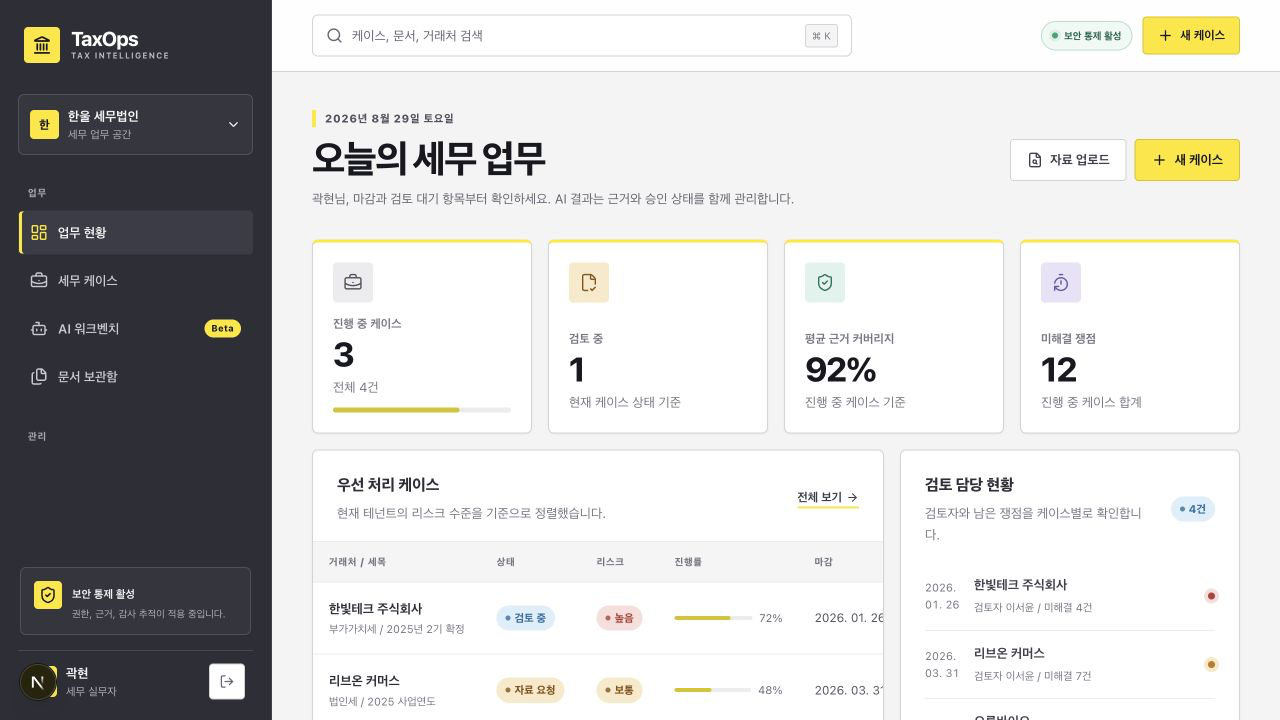
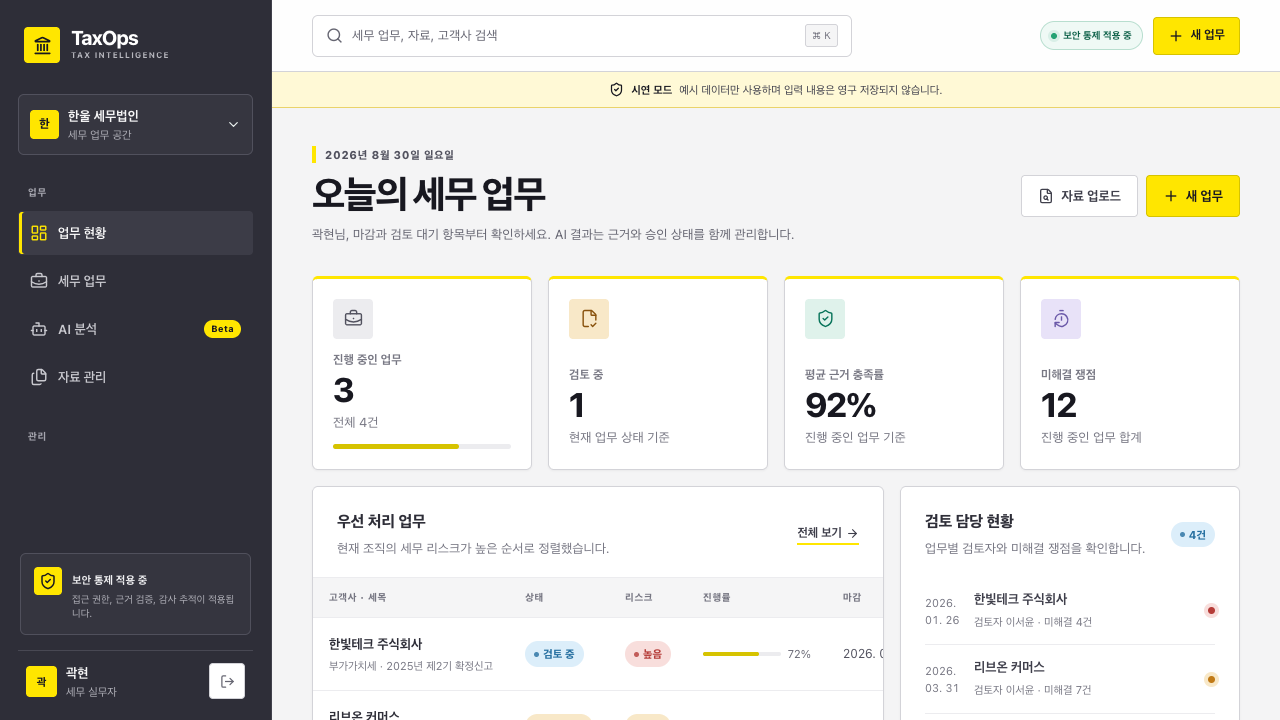
docs: strengthen portfolio README

diff --git a/README.md b/README.md
@@ -1,39 +1,85 @@
 # TaxOps AI
 
-근거가 확인된 자료만 사용해 세무 검토 초안을 만들고, 독립 검증과 전문가 승인을 거쳐 워크페이퍼로 확정하는 업무 플랫폼입니다. React와 Next.js 기반 화면부터 PostgreSQL, 파일 검역 워커, RAG 에이전트, MCP, 관측성, 컨테이너와 AWS 배포 참조까지 하나의 저장소에 구현했습니다.
+검증된 자료만 AI 검색에 포함하고, 초안의 주장과 근거를 다시 확인한 뒤 세무 검토자의 승인으로 확정하는 세무 업무 플랫폼입니다.
 
-라이브 포트폴리오: [taxops-ai.vercel.app](https://taxops-ai.vercel.app). 예시 데이터와 결정론적 AI 흐름만 제공하며, 입력 내용은 영구 저장되지 않습니다.
+[![quality-gates](https://github.com/kwakhyun/taxops-ai/actions/workflows/ci.yml/badge.svg?branch=main)](https://github.com/kwakhyun/taxops-ai/actions/workflows/ci.yml)
 
-![TaxOps AI 대시보드](artifacts/dashboard-visual.png)
+- **프로젝트 성격:** AI 개발 도구를 활용해 만든 개인 채용 포트폴리오
+- **구현 범위:** 업무 UX, Next.js 서버, PostgreSQL, 파일 처리, RAG 에이전트, 보안 통제, 관측성과 배포 참조
+- **검증 방식:** 타입 검사, 단위·계약·브라우저 테스트, AI 평가, 컨테이너 빌드와 Terraform 검증을 CI에서 반복 실행
+- **운영 상태:** [Vercel 공개 데모](https://taxops-ai.vercel.app)와 AWS 운영 환경을 위한 Terraform 참조 구현
 
-## 구현 범위
+공개 데모는 예시 데이터와 결정론적 AI 흐름만 사용하며 입력 내용을 영구 저장하지 않습니다. 실제 고객정보나 개인정보는 입력하지 마세요.
+
+![현재 세무 업무와 검토 대상을 보여 주는 TaxOps AI 대시보드](artifacts/dashboard-visual.png)
+
+## 5분 검토 방법
+
+1. [라이브 데모](https://taxops-ai.vercel.app)를 열어 마감, 리스크, 근거 충족률을 확인합니다.
+2. `⌘K` 또는 `Ctrl+K`를 누르고 `리브온`을 검색해 고객사 세무 업무로 이동합니다.
+3. `한빛테크 주식회사` 업무에서 색인 완료 자료의 다운로드와 추가 작업 메뉴를 확인합니다.
+4. **AI 분석**에서 `매입세액 불공제 의심 항목과 신고서 반영 차이` 질문을 실행합니다.
+5. 답변의 주장별 근거, 원문 위치, 관련도와 전문가 검토 대기 상태를 확인합니다. 근거가 없는 질문에는 답변을 보류합니다.
+
+![주장별 근거와 검토 결론을 함께 보여 주는 AI 분석 화면](artifacts/assistant-visual.png)
+
+## 검증 결과
+
+2026년 8월 30일 기준 결과입니다. 최신 상태는 상단 CI 배지에서 확인할 수 있습니다.
+
+| 검증 영역             |          결과 | 확인 범위                                                    |
+| --------------------- | ------------: | ------------------------------------------------------------ |
+| 단위·코드 계약 테스트 |    77/77 통과 | 보안 통제, 검색, 승인, 비용, 파일 검증과 서버 로직           |
+| Chromium 사용자 흐름  |      9/9 통과 | 업무 생성, 검색, 내보내기, 다운로드, 업로드, AI, 승인, MCP   |
+| PostgreSQL 운영 계약  |    25/25 통과 | 마이그레이션, RLS, 역할 분리, 조직 간 격리와 트랜잭션        |
+| 결정론적 AI 평가      |    45/45 통과 | 검색, 인용 무결성, 답변 보류, 프롬프트 인젝션과 조직 간 누출 |
+| 배포 품질 게이트      | 5개 작업 통과 | 전체 검증, 브라우저, DB, 컨테이너 3종과 Terraform            |
+
+코드 커버리지 기준선도 품질 게이트에 포함했습니다. 새 코드로 전체 커버리지가 기준선 아래로 내려가면 CI가 실패합니다.
+
+## 핵심 설계 판단
+
+| 판단                                                   | 구현                                                                                                                    | 자동 검증                                                                    |
+| ------------------------------------------------------ | ----------------------------------------------------------------------------------------------------------------------- | ---------------------------------------------------------------------------- |
+| 승인되지 않은 자료가 AI 근거로 사용되면 안 됩니다.     | 현재 조직과 업무에 속하고, 보안 검사를 통과한 최신 버전의 승인 자료만 검색합니다.                                       | 미승인 자료, 과거 버전과 다른 조직 자료의 배제 계약 및 AI 평가               |
+| AI와 웹 서버가 최종 승인 상태를 직접 바꾸면 안 됩니다. | 웹, 워커, 검토 서비스를 다른 DB 역할로 분리하고 산출물 해시와 행위에 묶인 일회성 승인 토큰을 사용합니다.                | 직접 쓰기 거부, 토큰 재사용 차단과 원자적 상태 전이 계약                     |
+| 공개 데모가 운영 구성을 가장하면 안 됩니다.            | 데모 저장소와 PostgreSQL 저장소를 같은 인터페이스 뒤에 두고, 운영 모드에서는 OIDC와 필수 외부 서비스 구성을 강제합니다. | 공개 준비 상태 API의 정보 노출 방지, 운영 설정 검사와 컨테이너 스모크 테스트 |
+
+## 업무 흐름과 구현 범위
 
 ```mermaid
 flowchart LR
-  A[케이스 생성] --> B[격리 저장]
+  A[세무 업무 생성] --> B[자료 격리 저장]
   B --> C[형식·서명·악성 파일 검사]
-  C --> D[파싱·청킹·벡터 인덱싱]
-  D --> E[테넌트·케이스 범위 RAG]
-  E --> F[제한된 ToolLoopAgent]
+  C --> D[내용 추출·청킹·벡터 인덱싱]
+  D --> E[조직·업무 범위 근거 검색]
+  E --> F[허용된 도구만 사용하는 AI]
   F --> G[독립 근거 검증]
-  G --> H[Reviewer 승인]
-  H --> I[확정 워크페이퍼]
+  G --> H[세무 검토자 승인]
+  H --> I[검토조서 확정]
   A -.-> J[해시 체인 감사 로그]
   C -.-> J
   F -.-> J
   H -.-> J
 ```
 
-- 업무 UI: 대시보드, 케이스, 문서 보관함, AI 워크벤치, 검토·승인, 운영, 평가, 감사 로그
-- 서버: 타입이 있는 REST API, 통일된 오류 응답, 요청 ID, 상태 전이, 멱등 업로드
-- 데이터: PostgreSQL 16, Drizzle 스키마와 검토된 SQL 마이그레이션, pgvector, RLS, 복합 외래 키
-- 파일: 비공개 격리 저장소, MIME·확장자·magic bytes와 OOXML ZIP 구조 검증, SHA-256, ClamAV, 정확한 S3 version/ETag 바인딩, 비동기 파싱과 인덱싱
-- AI: hybrid retrieval, 과세기간 기준일, 버전 관리 프롬프트, 제한된 tool loop, 별도 검증 에이전트, 문서 지시 분류, 월간과 실행별 비용 예산
-- 보안: OIDC Authorization Code + PKCE와 API Bearer 검증, DB 역할 확정, RBAC, RLS, 분리된 Reviewer 서비스, 일회성 승인 토큰, 외부 반출 PII 정책, 전체 감사 체인 검증
-- 운영: lease 기반 작업 큐, 재시도·jitter·DLQ, 서명된 outbox 알림, health endpoints, 구조화 로그, Docker, GitHub Actions, AWS Terraform 참조
-- 상호운용: 읽기 전용 세무 케이스·근거 검색 MCP 서버
+- **제품과 서버:** React 19와 Next.js 16 기반 반응형 업무 화면, 권한별 탐색, 통합 검색, Zod 요청 검증, 표준 오류 응답과 요청 ID
+- **데이터와 파일:** PostgreSQL 16, Drizzle 스키마와 SQL 마이그레이션, pgvector, RLS, 복합 외래 키, 비공개 격리 저장소, 파일 서명과 OOXML 구조 검사, ClamAV, S3 객체 버전·체크섬 결합
+- **AI:** 혼합 검색, 과세기간 기준일, 버전 관리 프롬프트, 제한된 도구 호출, 별도 검증 에이전트, 답변 보류와 실행별·월간 비용 예산
+- **보안과 운영:** OIDC Authorization Code + PKCE, RBAC, 분리된 검토 서비스, 비동기 작업 큐, 재시도·DLQ·서명된 알림, 구조화 로그, Docker, GitHub Actions와 AWS Terraform 참조
+- **상호운용:** 현재 조직 범위에서 세무 업무와 근거를 읽는 MCP 서버
 
-세부 근거는 [요구사항 추적표](docs/requirements-traceability.md)에 정리했습니다.
+세부 구현 근거와 아직 실환경 검증이 필요한 항목은 [요구사항 추적표](docs/requirements-traceability.md)에서 구분했습니다.
+
+## AI 개발 도구 사용과 산출물 검증
+
+개발 과정에서 AI 개발 도구를 요구사항 분해, 코드 작성, 문서화와 검토에 활용했습니다. 생성 결과는 완성품으로 간주하지 않고 다음 절차로 검증했습니다.
+
+1. 모호한 요구사항을 아키텍처, 위협 모델, API 계약, 평가 기준과 운영 런북으로 나눕니다.
+2. 변경마다 포맷, ESLint, 웹·워커·검토 서비스 타입 검사를 실행합니다.
+3. 단위 테스트에 그치지 않고 실제 PostgreSQL 역할과 트랜잭션, Chromium 사용자 흐름, 공식 MCP 클라이언트로 경계를 확인합니다.
+4. 프롬프트, 도구 스키마와 검색 버전을 코드에 두고 평가 보고서에 버전과 결과를 남깁니다.
+5. `main` 브랜치의 모든 변경은 GitHub Actions 품질 게이트와 Vercel 자동 배포 결과로 다시 확인합니다.
 
 ## 빠른 실행
 
@@ -45,39 +91,37 @@ cp .env.example .env.local
 npm run dev
 ```
 
-브라우저에서 `http://localhost:3000`을 엽니다. 기본값은 외부 서비스가 없어도 재현 가능한 데모 모드입니다. AI 응답 역시 고정 fixture를 그대로 출력하는 방식이 아니라, 질문과 검색 근거를 확인해 인용·기권 흐름을 결정하는 결정론적 로컬 경로를 사용합니다.
+브라우저에서 `http://localhost:3000`을 엽니다. 기본 설정은 외부 서비스 없이 재현 가능한 데모 모드입니다. 이 모드는 질문과 검색 근거를 확인해 인용 또는 답변 보류 흐름을 결정하며, 저장된 답변 문장을 그대로 출력하지 않습니다.
 
-Vercel 포트폴리오 프리뷰는 `PORTFOLIO_DEMO=true`, `AUTH_MODE=demo`를 명시한 격리 프로필로 실행할 수 있습니다. 이 프로필은 DB, 객체 저장소, 외부 AI Gateway 또는 Reviewer 서비스가 함께 구성되면 활성화되지 않습니다. 화면의 예시 데이터와 결정론적 AI 흐름을 검토하기 위한 용도이며, 입력 내용은 영구 저장되지 않으므로 실제 고객정보나 개인정보를 입력하면 안 됩니다. 실제 운영 환경에서는 이 변수를 제거하고 OIDC와 모든 외부 의존성을 구성해야 합니다.
-
-실제 AI Gateway를 사용하려면 `.env.local`에 `AI_GATEWAY_API_KEY`를 설정합니다. 웹 readiness는 DB와 Reviewer 서비스를 직접 호출하고, OIDC, AI, 객체 저장소, DLP, 의미 분류기와 MCP 설정을 검증합니다. Worker는 production 시작 단계에서 DB, 객체 저장소, ClamAV 연결과 문서 처리기, DLP, 의미 분류기의 인증된 설정을 따로 검증합니다. 브라우저 OIDC를 위해 `APP_BASE_URL`, authorization/token endpoint, client ID와 secret, 32자 이상의 `SESSION_SECRET`도 필요합니다. `TAXOPS_LOCAL_STACK=true`는 `NODE_ENV=development`인 로컬 Compose 계약 시험에서만 사용하며, production 웹 readiness와 Worker 시작은 이 설정을 명시적으로 거부합니다.
+실제 AI Gateway를 사용하려면 `.env.local`에 `AI_GATEWAY_API_KEY`를 설정합니다. 운영 모드에 필요한 OIDC, 객체 저장소, 개인정보 비식별화, 문서 처리와 의미 분류기 설정은 [.env.example](.env.example)과 [운영 런북](docs/operations-runbook.md)에 정리했습니다. 준비 상태 API의 의존 서비스별 상세 진단은 운영 전용 `HEALTH_DETAIL_TOKEN`으로만 조회할 수 있습니다.
 
 ## 검증 명령
 
 ```bash
-npm run verify       # 포맷, 린트, 타입, 단위 테스트, 평가, 프로덕션 빌드
-npm run test:e2e     # 실제 Chromium 사용자 흐름과 공식 MCP 클라이언트
-npm run eval         # 45개 결정론적 입력과 5개 mock agent 실행 품질 게이트
-npm run audit:prod   # production 의존성 취약점 게이트
+npm run verify       # 포맷, 린트, 타입, 커버리지 하한, AI 평가, 프로덕션 빌드
+npm run test:e2e     # Chromium 사용자 흐름과 공식 MCP 클라이언트
+npm run eval         # 45개 결정론적 입력과 5개 모의 에이전트 실행
+npm run audit:prod   # 운영 의존성의 심각도 high 이상 취약점 차단
 docker compose config -q
 docker compose up --build --abort-on-container-exit --exit-code-from contract-test contract-test
 docker compose run --rm contract-test npm run test:reviewer-service
 docker compose run --rm contract-test node --import tsx scripts/run-worker-smoke.ts
 ```
 
-현재 결정론적 품질 게이트는 Recall@5 90% 이상, 인용 원문 무결성 100%, 적대적 주장 무결성 사례 100%, 기권 정확도 90% 이상, prompt-injection 차단 100%, 교차 테넌트 누출 0건입니다. 평가 결과는 `artifacts/evaluation-report.json`에 저장되고 평가 화면이 이 파일을 직접 읽습니다. 이 평가는 fixture 검색, mock model orchestration과 코드 수준 무결성 회귀를 검증할 뿐, 실제 모델의 의미 정확도나 세무 정확도를 보증하지 않습니다. 실제 Gateway와 의미 분류기 경로는 별도의 staging 평가가 필요합니다.
+AI 품질 게이트는 Recall@5 90% 이상, 인용 원문 무결성 100%, 적대적 주장 무결성 사례 100%, 답변 보류 정확도 90% 이상, 프롬프트 인젝션 차단 100%, 조직 간 정보 누출 0건을 요구합니다.
 
-## 프로덕션 구성
+[평가 보고서](artifacts/evaluation-report.json)는 고정 평가 데이터 검색, 모의 모델 실행 흐름과 코드 수준 무결성 회귀를 검증합니다. 실제 모델의 의미 정확도나 세무 정확도를 보증하는 결과는 아닙니다.
 
-`compose.yaml`은 PostgreSQL/pgvector, MinIO, ClamAV, 마이그레이션, 웹, 워커와 독립 Reviewer 서비스를 연결합니다. 웹, 워커, Reviewer에는 서로 다른 DB 역할을 부여합니다. 웹 역할은 workpaper, version, approval 테이블에 직접 쓸 수 없고, 근거가 1건 이상이며 원문 필드 전체가 현재 DB와 일치할 때만 제한 함수가 검토 요청을 만듭니다. Reviewer 결정은 approval과 연결된 AI 실행 상태를 한 트랜잭션에서 함께 전이합니다.
+## 운영 환경 참조
+
+`compose.yaml`은 PostgreSQL/pgvector, MinIO, ClamAV, 마이그레이션, 웹, 워커와 독립 검토 서비스를 연결합니다. 세 런타임은 서로 다른 DB 역할을 사용합니다. 웹 역할은 검토조서 버전과 승인 테이블을 직접 변경할 수 없으며, 검토 결정은 승인 기록과 AI 실행 상태를 한 트랜잭션에서 함께 전이합니다.
 
 `infra/terraform`은 기존 VPC와 ALB 위에 다음 리소스를 구성하는 참조 모듈입니다.
 
 - KMS로 암호화된 비공개·버전 관리 S3 버킷
 - Multi-AZ RDS PostgreSQL
-- private subnet의 ECS Fargate 웹, 워커, Reviewer 서비스
-- 최소 범위 IAM, 암호화된 CloudWatch 로그, 경보·대시보드, 웹 자동 확장
-
-실제 배포 전에는 조직의 WAF, DNS·인증서, IdP, VPC endpoint, 백업, GuardDuty/Security Hub, 고가용성 ClamAV와 문서 처리 서비스를 연결하고 보안 담당자의 검토를 받아야 합니다. 자세한 절차는 [운영 런북](docs/operations-runbook.md)을 따릅니다.
+- 프라이빗 서브넷의 ECS Fargate 웹, 워커와 검토 서비스
+- 최소 권한 IAM, 암호화된 CloudWatch 로그, 경보·대시보드와 웹 자동 확장
 
 ## 핵심 설계 문서
 
@@ -90,6 +134,8 @@ docker compose run --rm contract-test node --import tsx scripts/run-worker-smoke
 
 ## 사실 범위와 남은 검증
 
-이 저장소는 해당 역할에 필요한 구현 역량을 보여 주는 end-to-end 포트폴리오입니다. 저장소 자체만으로 실제 사용자 대상 운영 경력 3년 이상을 증명할 수는 없습니다. 또한 AWS 계정에 Terraform을 적용하거나 실제 EY 환경, IdP, 세무 원천 시스템과 통합한 상태가 아닙니다.
-
-운영 전에는 세무 전문가의 golden set 확장과 결론 검수, 실제 의미 분류기의 한국어·영어 우회 변형 평가, 실제 OIDC·KMS·S3·RDS 통합 시험, 부하·복구·침투 테스트, 개인정보 영향평가, 법무·보존 정책 승인이 추가로 필요합니다. 공식 세무 원천의 서명 또는 신뢰 가능한 digest 검증과 감사 체인의 외부 WORM·서명 anchor도 조직 환경에서 연결해야 합니다. 이 프로젝트는 EY의 공식 제품이나 보증물이 아닙니다.
+- Vercel 배포는 포트폴리오용 데모입니다. 예시 데이터와 결정론적 AI 흐름만 사용하고 입력을 영구 저장하지 않습니다.
+- AWS Terraform은 형식과 구성 검증을 통과한 참조 구현이며 실제 계정에 적용하지 않았습니다. 실제 IdP, 세무 원천 시스템, 개인정보 비식별화·의미 분류·문서 처리 서비스와도 연결하지 않았습니다.
+- 운영 전에는 세무 전문가의 평가 데이터와 결론 검수, 실제 모델 평가가 필요합니다. 부하 테스트와 복구 테스트, 침투 테스트도 수행해야 하며 개인정보 영향평가와 법무 및 보존 정책 승인도 별도로 받아야 합니다.
+- 공식 세무 원천의 서명 또는 신뢰 가능한 해시값 검증이 필요합니다. 감사 체인도 조직 환경의 외부 WORM 저장소와 서명 기준점에 연결해야 합니다.
+- 이 프로젝트는 EY의 공식 제품이나 보증물이 아닙니다.

diff --git a/docs/requirements-traceability.md b/docs/requirements-traceability.md
@@ -7,7 +7,7 @@
 | React/Next.js/TypeScript 제품 UI | `src/app`, `src/components`, App Router, Server/Client Component 분리, 반응형 업무 화면 | typecheck, build, Chromium E2E, 모바일 시각 점검                | 구현                      |
 | REST와 서버 로직                 | `src/app/api/v1`, Zod 계약, 오류 envelope, request ID                                   | API 포함 E2E, 단위 테스트                                       | 구현                      |
 | 외부 서비스 연동                 | OIDC/JWKS, S3, ClamAV, private processor, AI Gateway, MCP, 서명 webhook                 | 로컬 대체 경로와 계약 테스트, 실제 production endpoint는 미연결 | 구현, 실환경 검증 필요    |
-| DB 설계·쿼리·migration           | 18개 테이블·enum, pgvector/FTS, 복합 FK·index, Drizzle schema와 SQL migration           | PostgreSQL migration/seed, RLS·역할·승인 경계 24건              | 구현                      |
+| DB 설계·쿼리·migration           | 18개 테이블·enum, pgvector/FTS, 복합 FK·index, Drizzle schema와 SQL migration           | PostgreSQL migration/seed, RLS·역할·승인 경계 25건              | 구현                      |
 | 인증·권한                        | OIDC Code + PKCE와 Bearer 검증, DB membership role, RBAC, RLS, Origin 검증              | 역할·tenant 단위 테스트, RLS CI                                 | 구현                      |
 | 파일 처리                        | 형식/서명/크기/checksum, OOXML ZIP 구조, quarantine, ClamAV, parse, chunk, index        | 파일 단위 테스트, EICAR 포함 Worker 컨테이너 스모크             | 구현                      |
 | 비동기 작업                      | DB queue, idempotency, lease, heartbeat, retry/jitter, DLQ, outbox                      | 상태·업로드 테스트, DB 계약 job                                 | 구현                      |
@@ -18,20 +18,22 @@
 | 프롬프트 자산화                  | versioned prompt, tool schema, retrieval version, report provenance                     | eval report에 버전 기록                                         | 구현                      |
 | 품질·latency·cost·observability  | 품질 gate, step/time/token/cost budget, 월간 원자적 예산 예약, telemetry 원문 비기록    | budget 단위 테스트, eval                                        | 구현                      |
 | 민감정보와 enterprise control    | PII redaction, OIDC, RBAC, tenant RLS, KMS/S3, 분리 승인 서비스, audit                  | 보안 테스트, Reviewer OIDC/HTTP 계약, threat model              | 구현, 조직 통제 연동 필요 |
-| 파일 중심 업무 UX                | 케이스→업로드→AI 근거→검토 승인→감사 흐름                                               | 7개 end-to-end 시나리오                                         | 구현                      |
+| 파일 중심 업무 UX                | 세무 업무→업로드→AI 근거→검토 승인→감사 흐름                                            | 9개 end-to-end 시나리오                                         | 구현                      |
 | 모호한 요구의 기술 분해          | 요구사항, architecture, threat model, quality gate, runbook으로 분리                    | 문서와 코드 traceability                                        | 구현                      |
 | 실제 사용자 배포·운영 3년 이상   | 저장소로는 재직 기간과 실사용 운영 이력을 입증할 수 없음                                | 경력증명, 실제 서비스 지표, 추천서 등 별도 자료 필요            | 미증명                    |
 
 ## 대표 사용자 시나리오
 
-1. Analyst가 케이스를 만들고 Reviewer를 지정합니다.
-2. 위장 파일은 즉시 거부되고 유효한 자료는 quarantine과 durable queue로 이동합니다.
-3. 워커가 검사와 인덱싱을 완료하고 Reviewer가 AI 근거 사용을 승인한 자료만 검색 대상이 됩니다.
-4. AI는 현재 tenant와 케이스 안에서 근거를 찾고, 계산 도구를 사용해 초안을 만듭니다.
-5. 별도 verifier가 인용과 주장을 확인합니다. 근거가 없으면 기권합니다.
-6. Reviewer는 artifact hash에 묶인 일회성 토큰으로 승인하거나 반려합니다.
-7. 모든 중요 동작은 hash-chain audit event로 남습니다.
+1. 세무 실무자가 업무를 만들고 세무 검토자를 지정합니다.
+2. 위장 파일은 즉시 거부되고 유효한 자료는 격리 저장소와 내구성 작업 큐로 이동합니다.
+3. 워커가 검사와 인덱싱을 완료하고 세무 검토자가 AI 근거 사용을 승인한 자료만 검색 대상이 됩니다.
+4. AI는 현재 조직과 세무 업무 안에서 근거를 찾고, 계산 도구를 사용해 초안을 만듭니다.
+5. 별도 검증 에이전트가 인용과 주장을 확인합니다. 근거가 없으면 답변을 보류합니다.
+6. 세무 검토자는 산출물 해시에 묶인 일회성 토큰으로 승인하거나 반려합니다.
+7. 모든 중요 동작은 해시 체인 감사 이벤트로 남습니다.
 
 ## 검증 범위의 한계
 
-2026-08-29 로컬 검증에서는 실제 PostgreSQL/pgvector 마이그레이션과 RLS·역할·승인 경계 계약 24건, 분리 Reviewer OIDC/HTTP 계약, MinIO·ClamAV Worker 스모크를 컨테이너에서 통과했습니다. 근거 0건, 위조된 원문 필드, 앱 역할의 lineage 직접 쓰기를 거부하고, 정상 승인이 연결된 AI 실행 상태를 함께 전이하는 시나리오를 포함합니다. 이는 로컬 통합 검증이며 AWS 계정에 Terraform을 적용했거나 실제 IdP, DLP, 의미 분류기, 문서 처리기와 연결했다는 의미는 아닙니다.
+2026-08-30 로컬 검증에서는 PostgreSQL/pgvector 마이그레이션과 RLS·역할·승인 경계 계약 25건을 통과했습니다. 분리된 검토 서비스의 OIDC/HTTP 계약과 MinIO·ClamAV 워커 스모크 테스트도 컨테이너에서 확인했습니다.
+
+검증에는 근거 0건, 위조된 원문 필드, 앱 역할의 검토조서 이력 직접 쓰기를 거부하는 시나리오가 포함됩니다. 정상 승인과 연결된 AI 실행 상태가 함께 전이되는지도 확인합니다. 이는 로컬 통합 검증이며 AWS 계정에 Terraform을 적용했거나 실제 IdP, 개인정보 비식별화, 의미 분류기, 문서 처리기와 연결했다는 의미는 아닙니다.
